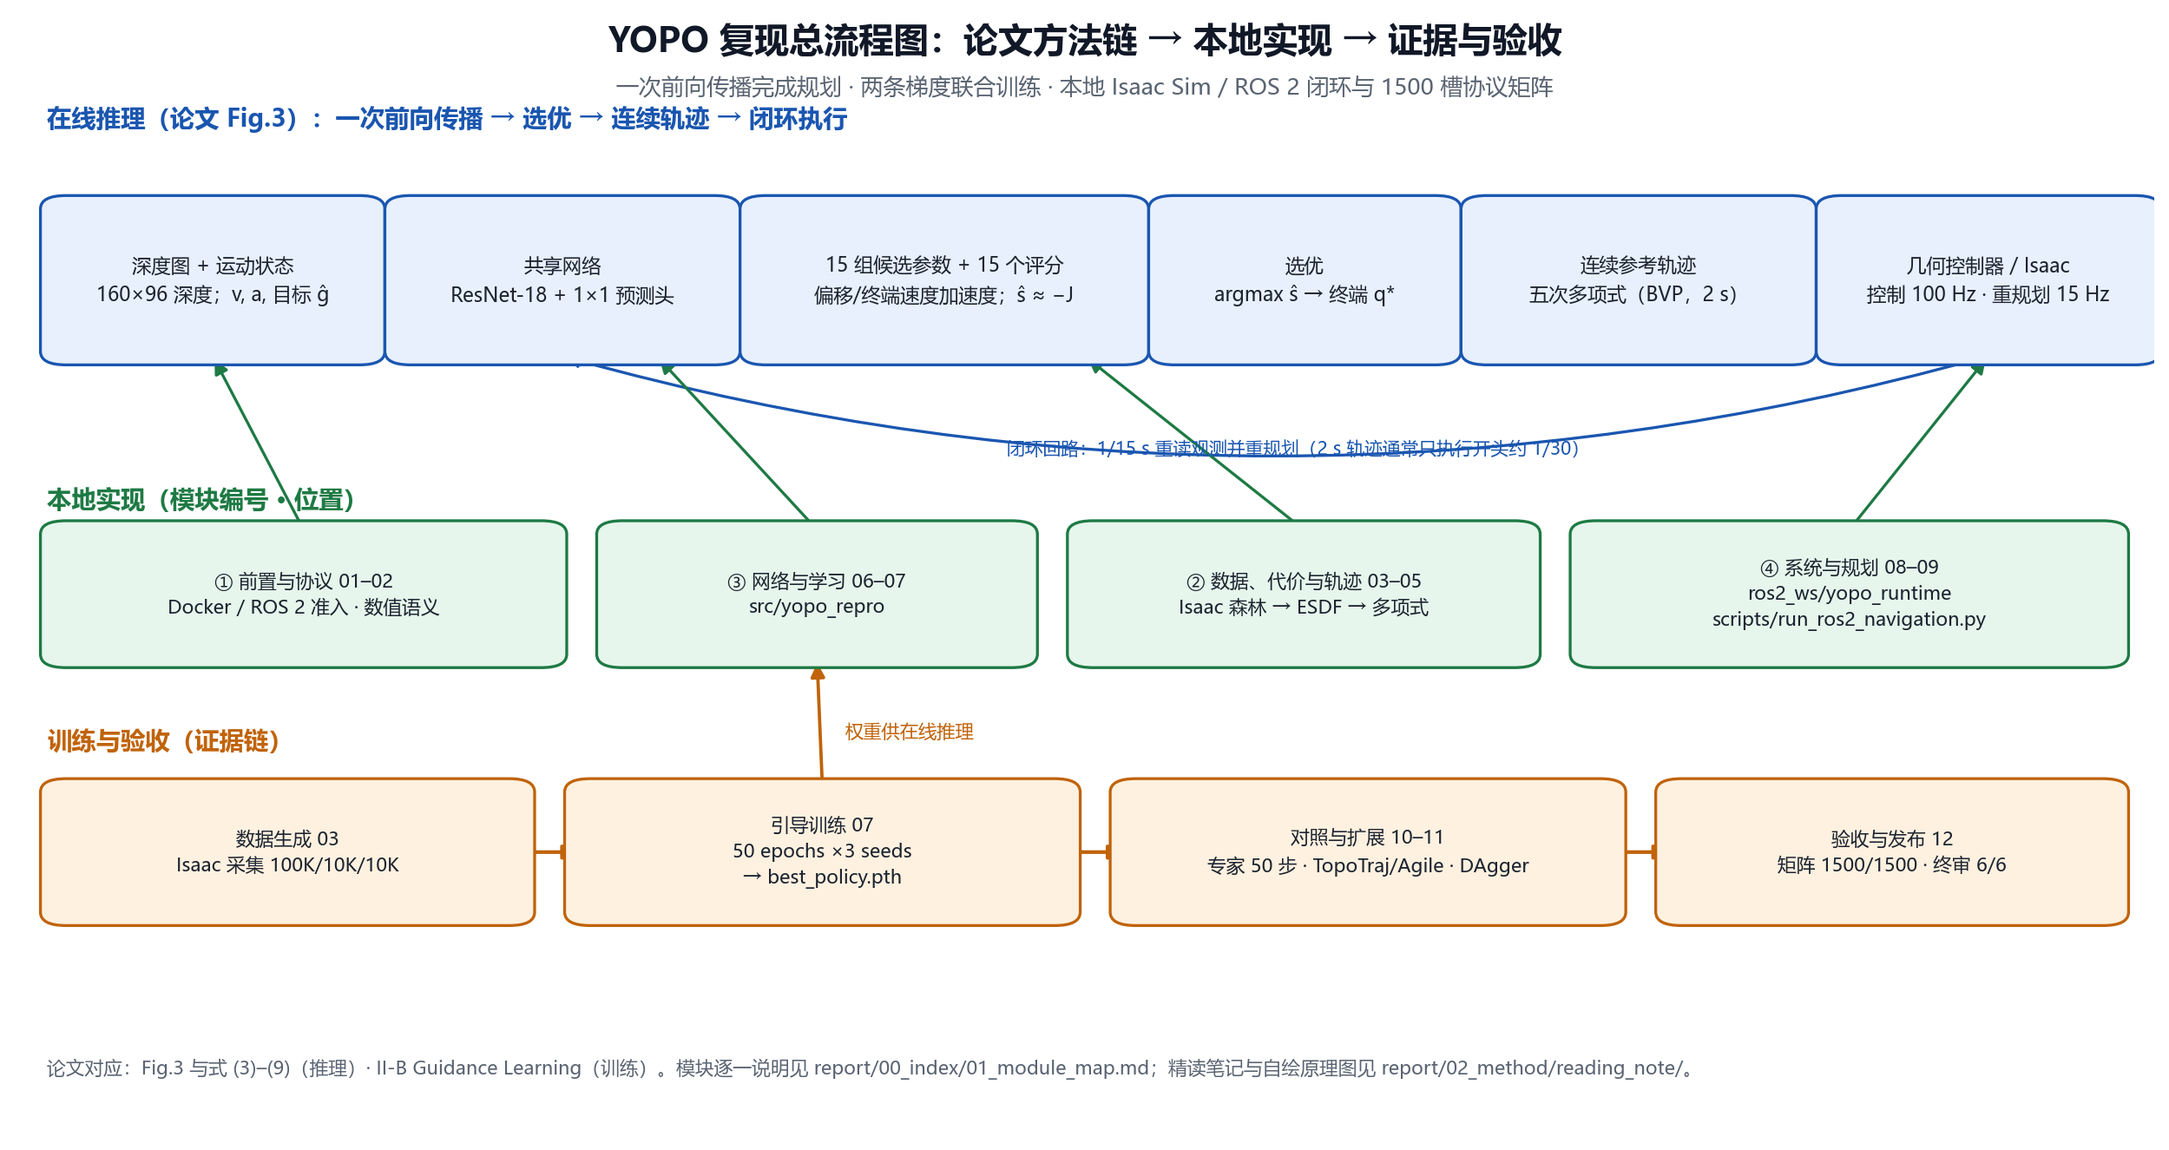
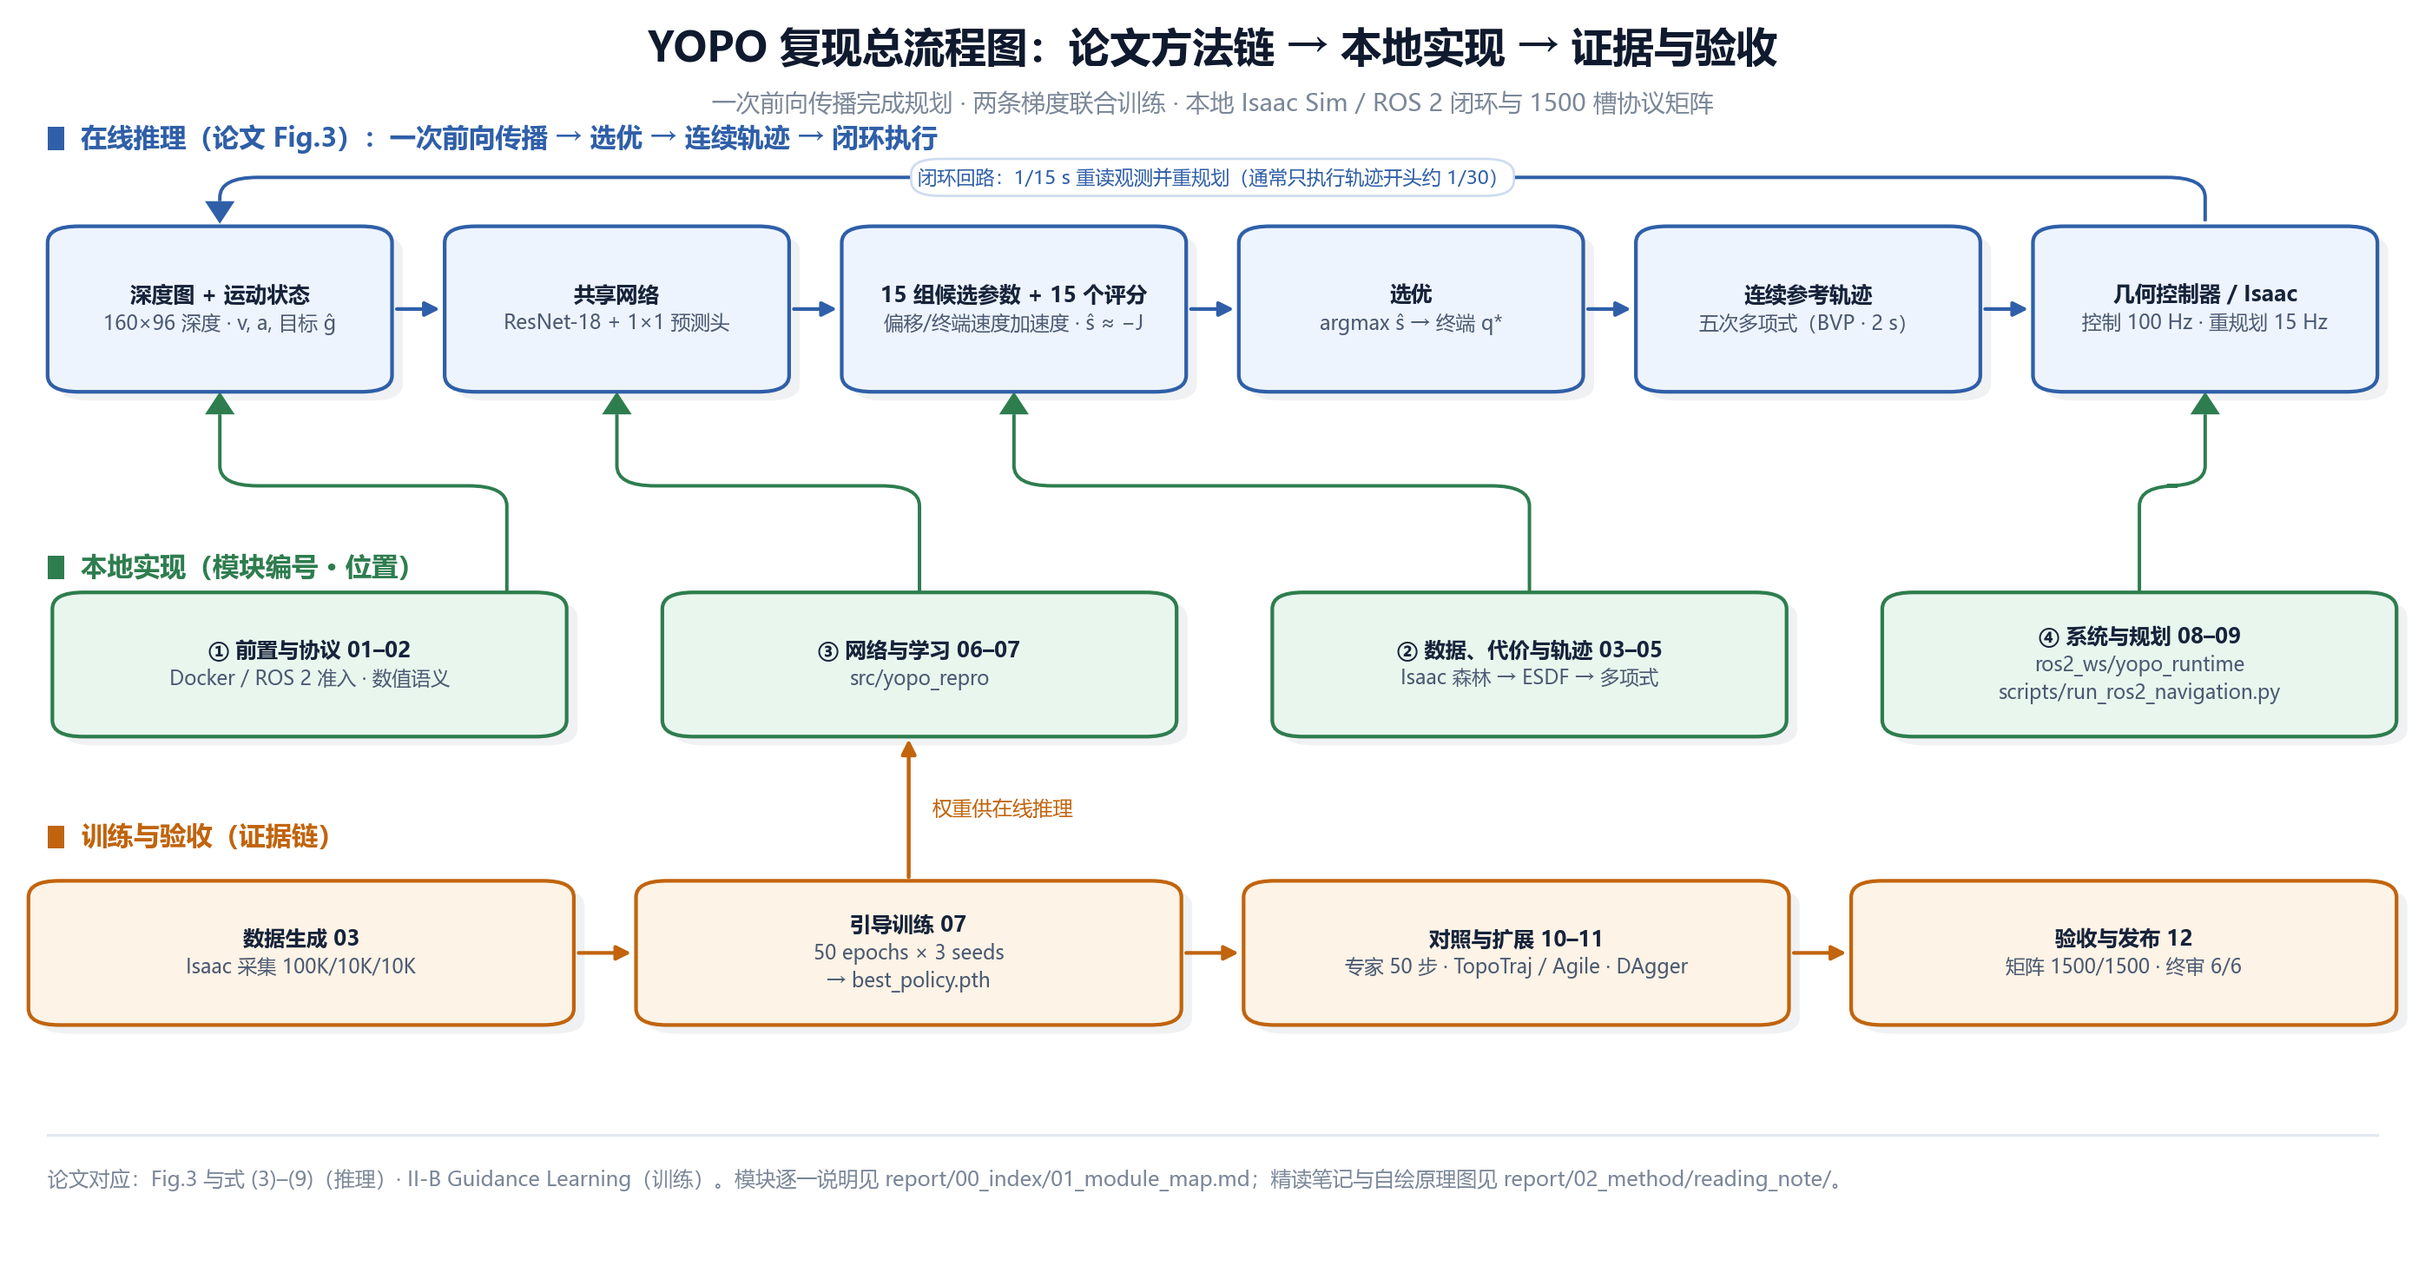
docs: refine pipeline flowchart layout (orthogonal loop, shared elbow lane, layered cards)
Row-A cards are now evenly spaced; the terminal-to-sensing loop is a labelled orthogonal path above the band; band-B module mappings share one elbow lane, removing the crossing connectors and the label the old arrows ran through; unified rounded cards with soft shadows and title/detail typography. Regenerated report/00_index/04_pipeline_flowchart.png (same path, README unchanged).

diff --git a/scripts/make_pipeline_flowchart.py b/scripts/make_pipeline_flowchart.py
@@ -7,114 +7,225 @@ Three bands in one figure:
   C. training / evaluation / acceptance chain that produces the weights and
      the evidence the inference band consumes.
 
+Layout notes: row-A cards are evenly spaced; the closed loop is an orthogonal
+path above the band (label on a white pill) so the connector area below stays
+free of crossings; band-B modules reach their targets through orthogonal
+elbows that share one lane.
+
 Output: report/00_index/04_pipeline_flowchart.png (committed; regenerate with
 `python scripts/make_pipeline_flowchart.py`).
 """
 from pathlib import Path
+
 import matplotlib
 
 matplotlib.use("Agg")
 import matplotlib.pyplot as plt
-from matplotlib.patches import FancyBboxPatch, FancyArrowPatch
+from matplotlib.patches import FancyArrowPatch, FancyBboxPatch, PathPatch, Polygon
+from matplotlib.path import Path as MPath
 
 ROOT = Path(__file__).resolve().parents[1]
 OUT = ROOT / "report/00_index/04_pipeline_flowchart.png"
 
-C_BLUE, C_BLUE_E = "#e8f0fe", "#1a56b0"
-C_GREEN, C_GREEN_E = "#e6f6ec", "#1e7a44"
-C_ORANGE, C_ORANGE_E = "#fff1e0", "#c0630a"
-C_GREY = "#5a6472"
+# --- palette ----------------------------------------------------------------
+BLUE_F, BLUE_E = "#eef4fe", "#2f5fa8"
+GREEN_F, GREEN_E = "#e9f6ee", "#2e7d4f"
+ORANGE_F, ORANGE_E = "#fdf3e6", "#c1640d"
+TITLE_C, BODY_C = "#16233a", "#4b5a72"
+GREY = "#7b8798"
+SHADOW = "#0f172a"
 
 
 def set_cjk_font():
     from matplotlib import font_manager
+
+    family = None
     for candidate in ("C:/Windows/Fonts/msyh.ttc", "C:/Windows/Fonts/msyhbd.ttc", "C:/Windows/Fonts/simhei.ttf"):
         if Path(candidate).is_file():
             font_manager.fontManager.addfont(candidate)
-            plt.rcParams["font.family"] = font_manager.FontProperties(fname=candidate).get_name()
-            return
+            family = family or font_manager.FontProperties(fname=candidate).get_name()
+    if family:
+        plt.rcParams["font.family"] = family
 
 
-def box(ax, x, y, w, h, text, fc, ec, fontsize=10.5, bold_first=True):
-    ax.add_patch(FancyBboxPatch((x, y), w, h, boxstyle="round,pad=0.008,rounding_size=0.012",
-                                linewidth=1.4, edgecolor=ec, facecolor=fc, zorder=3))
-    ax.text(x + w / 2, y + h / 2, text, ha="center", va="center", fontsize=fontsize,
-            color="#1c2430", zorder=4, linespacing=1.45)
+def box(ax, x, y, w, h, title, details, fc, ec, tfs=9.4, dfs=8.6, step=0.0225):
+    """Rounded card with a bold title and centred detail lines plus a soft shadow."""
+    ax.add_patch(
+        FancyBboxPatch(
+            (x + 0.0045, y - 0.007), w, h,
+            boxstyle="round,pad=0,rounding_size=0.013",
+            linewidth=0, facecolor=SHADOW, alpha=0.06, zorder=2,
+        )
+    )
+    ax.add_patch(
+        FancyBboxPatch(
+            (x, y), w, h,
+            boxstyle="round,pad=0,rounding_size=0.013",
+            linewidth=1.6, edgecolor=ec, facecolor=fc, zorder=3,
+        )
+    )
+    lines = [title] + list(details)
+    top = y + h / 2 + (len(lines) - 1) * step / 2
+    for i, text in enumerate(lines):
+        ax.text(
+            x + w / 2, top - i * step, text,
+            ha="center", va="center", zorder=4,
+            fontsize=tfs if i == 0 else dfs,
+            fontweight="bold" if i == 0 else "normal",
+            color=TITLE_C if i == 0 else BODY_C,
+        )
 
 
-def arrow(ax, x1, y1, x2, y2, color="#40506a", lw=1.8, style="-|>", rad=0.0):
-    ax.add_patch(FancyArrowPatch((x1, y1), (x2, y2), arrowstyle=style, mutation_scale=14,
-                                 linewidth=lw, color=color, zorder=2,
-                                 connectionstyle=f"arc3,rad={rad}"))
+def arrow(ax, x1, y1, x2, y2, color, lw=1.5, ms=13, rad=0.0, zorder=2):
+    ax.add_patch(
+        FancyArrowPatch(
+            (x1, y1), (x2, y2), arrowstyle="-|>", mutation_scale=ms,
+            linewidth=lw, color=color, zorder=zorder,
+            connectionstyle=f"arc3,rad={rad}", shrinkA=0, shrinkB=0,
+        )
+    )
+
+
+def elbow_up(ax, x1, y1, x2, y2, lane, color, lw=1.5, r=0.016, head=0.018, hw=0.0062):
+    """Orthogonal connector from (x1, y1) up to (x2, y2) through a shared lane."""
+    s = 1.0 if x2 > x1 else -1.0
+    verts = [
+        (x1, y1), (x1, lane - r), (x1, lane), (x1 + s * r, lane),
+        (x2 - s * r, lane), (x2, lane), (x2, lane + r), (x2, y2 - head),
+    ]
+    codes = [
+        MPath.MOVETO, MPath.LINETO, MPath.CURVE3, MPath.CURVE3,
+        MPath.LINETO, MPath.CURVE3, MPath.CURVE3, MPath.LINETO,
+    ]
+    ax.add_patch(PathPatch(MPath(verts, codes), fill=False, edgecolor=color, linewidth=lw, zorder=2))
+    ax.add_patch(
+        Polygon(
+            [(x2 - hw, y2 - head), (x2 + hw, y2 - head), (x2, y2)],
+            closed=True, facecolor=color, edgecolor="none", zorder=2,
+        )
+    )
+
+
+def loop_over(ax, x_start, y_start, x_end, y_end, lane, color, lw=1.5, r=0.016, head=0.018, hw=0.0062):
+    """Orthogonal loop: up from (x_start, y_start), along the lane, down into
+    (x_end, y_end) with a downward arrowhead."""
+    s = 1.0 if x_end > x_start else -1.0
+    verts = [
+        (x_start, y_start), (x_start, lane - r), (x_start, lane), (x_start + s * r, lane),
+        (x_end - s * r, lane), (x_end, lane), (x_end, lane - r), (x_end, y_end + head),
+    ]
+    codes = [
+        MPath.MOVETO, MPath.LINETO, MPath.CURVE3, MPath.CURVE3,
+        MPath.LINETO, MPath.CURVE3, MPath.CURVE3, MPath.LINETO,
+    ]
+    ax.add_patch(PathPatch(MPath(verts, codes), fill=False, edgecolor=color, linewidth=lw, zorder=2))
+    ax.add_patch(
+        Polygon(
+            [(x_end - hw, y_end + head), (x_end + hw, y_end + head), (x_end, y_end)],
+            closed=True, facecolor=color, edgecolor="none", zorder=2,
+        )
+    )
+
+
+def band_label(ax, x, y, color, text):
+    ax.add_patch(plt.Rectangle((x, y - 0.0092), 0.0068, 0.0184, facecolor=color, edgecolor="none", zorder=3))
+    ax.text(x + 0.014, y, text, ha="left", va="center", fontsize=11.5, fontweight="bold", color=color, zorder=3)
 
 
 def main():
     set_cjk_font()
     fig, ax = plt.subplots(figsize=(14.8, 7.9), facecolor="white")
-    ax.set_xlim(0, 1); ax.set_ylim(0, 1); ax.axis("off")
+    ax.set_xlim(0, 1)
+    ax.set_ylim(0, 1)
+    ax.axis("off")
 
-    ax.text(.5, .975, "YOPO 复现总流程图：论文方法链 → 本地实现 → 证据与验收",
-            ha="center", va="center", fontsize=17, fontweight="bold", color="#111827")
-    ax.text(.5, .935, "一次前向传播完成规划 · 两条梯度联合训练 · 本地 Isaac Sim / ROS 2 闭环与 1500 槽协议矩阵",
-            ha="center", va="center", fontsize=11, color=C_GREY)
+    # ---------------- header ----------------
+    ax.text(.5, .972, "YOPO 复现总流程图：论文方法链 → 本地实现 → 证据与验收",
+            ha="center", va="center", fontsize=18, fontweight="bold", color="#101a2e")
+    ax.text(.5, .930, "一次前向传播完成规划 · 两条梯度联合训练 · 本地 Isaac Sim / ROS 2 闭环与 1500 槽协议矩阵",
+            ha="center", va="center", fontsize=10.5, color=GREY)
 
-    # ---------------- Band A: online inference chain (6 boxes) ----------------
-    ax.text(.015, .900, "在线推理（论文 Fig.3）：一次前向传播 → 选优 → 连续轨迹 → 闭环执行",
-            fontsize=12, fontweight="bold", color=C_BLUE_E)
-    yA, hA = .695, .135
+    # ---------------- band A: online inference chain ----------------
+    band_label(ax, .013, .902, BLUE_E, "在线推理（论文 Fig.3）：一次前向传播 → 选优 → 连续轨迹 → 闭环执行")
+    ya, ha = .700, .132
+    wa, gapa = .144, .022
     boxes_a = [
-        (.020, .145, "深度图 + 运动状态\n160×96 深度；v, a, 目标 ĝ"),
-        (.181, .150, "共享网络\nResNet-18 + 1×1 预测头"),
-        (.347, .175, "15 组候选参数 + 15 个评分\n偏移/终端速度加速度；ŝ ≈ −J"),
-        (.538, .130, "选优\nargmax ŝ → 终端 q*"),
-        (.684, .150, "连续参考轨迹\n五次多项式（BVP，2 s）"),
-        (.850, .145, "几何控制器 / Isaac\n控制 100 Hz · 重规划 15 Hz"),
+        ("深度图 + 运动状态", ["160×96 深度 · v, a, 目标 ĝ"]),
+        ("共享网络", ["ResNet-18 + 1×1 预测头"]),
+        ("15 组候选参数 + 15 个评分", ["偏移/终端速度加速度 · ŝ ≈ −J"]),
+        ("选优", ["argmax ŝ → 终端 q*"]),
+        ("连续参考轨迹", ["五次多项式（BVP · 2 s）"]),
+        ("几何控制器 / Isaac", ["控制 100 Hz · 重规划 15 Hz"]),
     ]
-    for x, w, text in boxes_a:
-        box(ax, x, yA, w, hA, text, C_BLUE, C_BLUE_E, fontsize=9.5)
-    for (x1, w1, _), (x2, _, _) in zip(boxes_a, boxes_a[1:]):
-        arrow(ax, x1 + w1, yA + hA / 2, x2, yA + hA / 2, C_BLUE_E)
-    arrow(ax, .9225, yA, .2555, yA, C_BLUE_E, rad=-.14, lw=1.4)
-    ax.text(.60, .607, "闭环回路：1/15 s 重读观测并重规划（2 s 轨迹通常只执行开头约 1/30）",
-            fontsize=8.8, color=C_BLUE_E, ha="center")
+    centers_a = []
+    for i, (title, details) in enumerate(boxes_a):
+        x = .013 + i * (wa + gapa)
+        centers_a.append(x + wa / 2)
+        box(ax, x, ya, wa, ha, title, details, BLUE_F, BLUE_E)
+    for i in range(len(boxes_a) - 1):
+        x1 = .013 + i * (wa + gapa) + wa
+        arrow(ax, x1 + .002, ya + ha / 2, x1 + gapa - .002, ya + ha / 2, BLUE_E, lw=1.6)
 
-    # ---------------- Band B: repository mapping ----------------
-    ax.text(.015, .560, "本地实现（模块编号 · 位置）", fontsize=12, fontweight="bold", color=C_GREEN_E)
-    yB, hB = .425, .115
+    # closed loop: orthogonal path above the band, label on a white pill
+    loop_over(ax, centers_a[-1], ya + ha + .004, centers_a[0], ya + ha + .002, .871, BLUE_E)
+    pill_w, pill_h, px, py = .252, .0295, .5, .871
+    ax.add_patch(
+        FancyBboxPatch(
+            (px - pill_w / 2, py - pill_h / 2), pill_w, pill_h,
+            boxstyle="round,pad=0,rounding_size=0.012",
+            linewidth=1.0, edgecolor="#cddbf0", facecolor="white", zorder=4,
+        )
+    )
+    ax.text(px, py, "闭环回路：1/15 s 重读观测并重规划（通常只执行轨迹开头约 1/30）",
+            ha="center", va="center", fontsize=8.4, color=BLUE_E, zorder=5)
+
+    # ---------------- band B: repository mapping ----------------
+    band_label(ax, .013, .560, GREEN_E, "本地实现（模块编号 · 位置）")
+    yb, hb = .425, .115
     boxes_b = [
-        (.020, .230, "① 前置与协议 01–02\nDocker / ROS 2 准入 · 数值语义"),
-        (.280, .190, "③ 网络与学习 06–07\nsrc/yopo_repro"),
-        (.500, .205, "② 数据、代价与轨迹 03–05\nIsaac 森林 → ESDF → 多项式"),
-        (.735, .245, "④ 系统与规划 08–09\nros2_ws/yopo_runtime\nscripts/run_ros2_navigation.py"),
+        (.015, .215, "① 前置与协议 01–02", ["Docker / ROS 2 准入 · 数值语义"], .205),
+        (.270, .215, "③ 网络与学习 06–07", ["src/yopo_repro"], .3775),
+        (.525, .215, "② 数据、代价与轨迹 03–05", ["Isaac 森林 → ESDF → 多项式"], .6325),
+        (.780, .215, "④ 系统与规划 08–09", ["ros2_ws/yopo_runtime", "scripts/run_ros2_navigation.py"], .8875),
     ]
-    for x, w, text in boxes_b:
-        box(ax, x, yB, w, hB, text, C_GREEN, C_GREEN_E, fontsize=9.2)
-    arrow(ax, .135, yB + hB, .0925, yA, C_GREEN_E, lw=1.4)
-    arrow(ax, .375, yB + hB, .30, yA, C_GREEN_E, lw=1.4)
-    arrow(ax, .6025, yB + hB, .50, yA, C_GREEN_E, lw=1.4)
-    arrow(ax, .8575, yB + hB, .9225, yA, C_GREEN_E, lw=1.4)
+    for x, w, title, details, _ in boxes_b:
+        box(ax, x, yb, w, hb, title, details, GREEN_F, GREEN_E, tfs=9.2, dfs=8.5)
 
-    # ---------------- Band C: training / evaluation / acceptance ----------------
-    ax.text(.015, .345, "训练与验收（证据链）", fontsize=12, fontweight="bold", color=C_ORANGE_E)
-    yC, hC = .195, .115
+    lane = .625
+    targets_a = [centers_a[0], centers_a[1], centers_a[2], centers_a[5]]
+    for (_, _, _, _, start_x), target in zip(boxes_b, targets_a):
+        elbow_up(ax, start_x, yb + hb, target, ya, lane, GREEN_E)
+
+    # ---------------- band C: training / evaluation / acceptance ----------------
+    band_label(ax, .013, .345, ORANGE_E, "训练与验收（证据链）")
+    yc, hc = .195, .115
     boxes_c = [
-        (.020, .215, "数据生成 03\nIsaac 采集 100K/10K/10K"),
-        (.265, .225, "引导训练 07\n50 epochs ×3 seeds\n→ best_policy.pth"),
-        (.520, .225, "对照与扩展 10–11\n专家 50 步 · TopoTraj/Agile · DAgger"),
-        (.775, .205, "验收与发布 12\n矩阵 1500/1500 · 终审 6/6"),
+        (.005, .228, "数据生成 03", ["Isaac 采集 100K/10K/10K"]),
+        (.259, .228, "引导训练 07", ["50 epochs × 3 seeds", "→ best_policy.pth"]),
+        (.513, .228, "对照与扩展 10–11", ["专家 50 步 · TopoTraj / Agile · DAgger"]),
+        (.767, .228, "验收与发布 12", ["矩阵 1500/1500 · 终审 6/6"]),
     ]
-    for x, w, text in boxes_c:
-        box(ax, x, yC, w, hC, text, C_ORANGE, C_ORANGE_E, fontsize=9.2)
-    for (x1, w1, _), (x2, _, _) in zip(boxes_c, boxes_c[1:]):
-        arrow(ax, x1 + w1, yC + hC / 2, x2, yC + hC / 2, C_ORANGE_E)
-    arrow(ax, .3775, yC + hC, .375, yB, C_ORANGE_E, lw=1.6)
-    ax.text(.388, .355, "权重供在线推理", fontsize=9, color=C_ORANGE_E, ha="left")
+    for x, w, title, details in boxes_c:
+        box(ax, x, yc, w, hc, title, details, ORANGE_F, ORANGE_E, tfs=9.2, dfs=8.5)
+    for i in range(len(boxes_c) - 1):
+        x1 = boxes_c[i][0] + boxes_c[i][1]
+        arrow(ax, x1 + .002, yc + hc / 2, boxes_c[i + 1][0] - .002, yc + hc / 2, ORANGE_E, lw=1.6)
 
-    ax.text(.015, .055, "论文对应：Fig.3 与式 (3)–(9)（推理）· II-B Guidance Learning（训练）。"
-                        "模块逐一说明见 report/00_index/01_module_map.md；精读笔记与自绘原理图见 report/02_method/reading_note/。",
-            fontsize=9.2, color=C_GREY)
+    # weights feed the online network
+    c2 = boxes_c[1][0] + boxes_c[1][1] / 2
+    arrow(ax, c2, yc + hc + .003, c2, yb - .002, ORANGE_E, lw=1.7)
+    ax.text(c2 + .010, (yc + hc + yb) / 2, "权重供在线推理", ha="left", va="center",
+            fontsize=8.8, color=ORANGE_E)
+
+    # ---------------- footer ----------------
+    ax.plot([.013, .987], [.107, .107], color="#e2e8f0", linewidth=1.2, zorder=1)
+    ax.text(.013, .072,
+            "论文对应：Fig.3 与式 (3)–(9)（推理）· II-B Guidance Learning（训练）。"
+            "模块逐一说明见 report/00_index/01_module_map.md；精读笔记与自绘原理图见 report/02_method/reading_note/。",
+            fontsize=9.0, color=GREY, ha="left", va="center")
+
     fig.tight_layout(rect=(0, 0, 1, 1))
-    fig.savefig(OUT, dpi=170, facecolor="white", bbox_inches="tight")
+    fig.savefig(OUT, dpi=190, facecolor="white", bbox_inches="tight")
     print("wrote", OUT.relative_to(ROOT).as_posix())
 
 

diff --git a/plan/99_change_log/CHANGELOG.md b/plan/99_change_log/CHANGELOG.md
@@ -23,6 +23,7 @@
 - README 规范化：项目名统一为「YOPO 复现工程 · YOPO Reproduction」；补论文/官方主页/官方仓库链接与徽章、快速开始、复现结果与验证、与官方主项目关系、引用（官方 BibTeX）、相关项目（官方 YOPO/YOPO-Sim/YOPO-Rally 与社区 YOPO-ROS2）、许可致谢与变更入口；修正闭环对照表重复表头。
 - 新增「复现总流程图」：scripts/make_pipeline_flowchart.py 生成 report/00_index/04_pipeline_flowchart.png（在线推理链 / 本地模块映射 / 训练与验收证据链三带合一），README 与模块总图同步引用。
 - 阅读笔记随复现分发：report/02_method/reading_note/（精读笔记 README、自绘 assets、工具与 50 页 Beamer 汇报及 TeX 源码；引用路径已改为仓库内相对链接），README 新增「阅读笔记」小节并与方法对照互联。
+- 复现总流程图视觉改版：六个推理卡等宽等距、闭环回路改为带白色标牌的正交走线（顶部跨越、垂直箭头指回深度图）、本地实现四条映射改为共用一条车道的正交折线（消除交叉与文字遮挡）、统一圆角卡片 + 柔和阴影 + 标题/正文分层字体，重新生成 report/00_index/04_pipeline_flowchart.png（README 与模块总图引用路径不变）。
 
 ## 2026-10-12 新根重构（v2）
 
